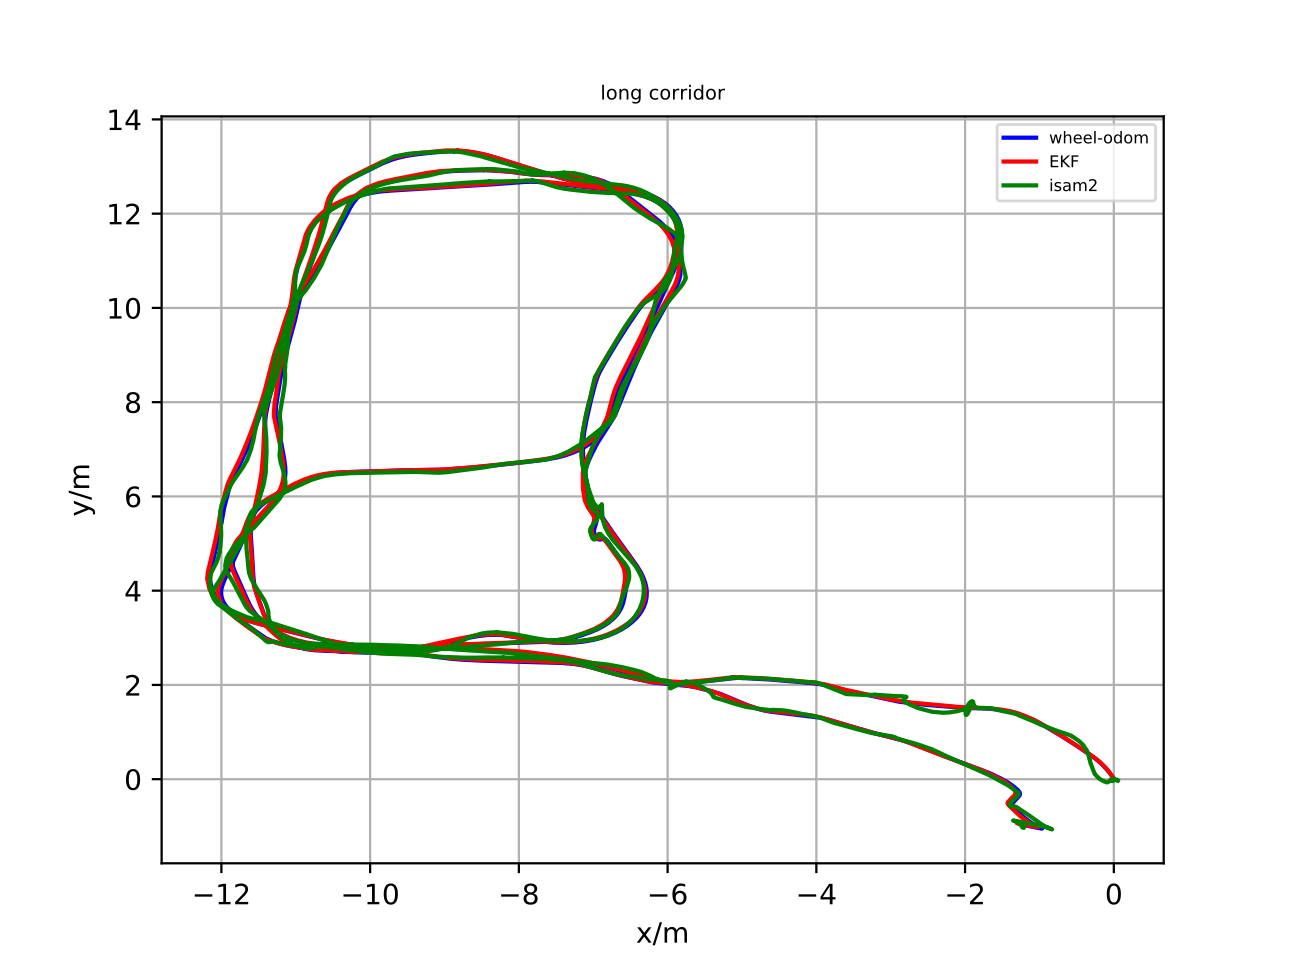
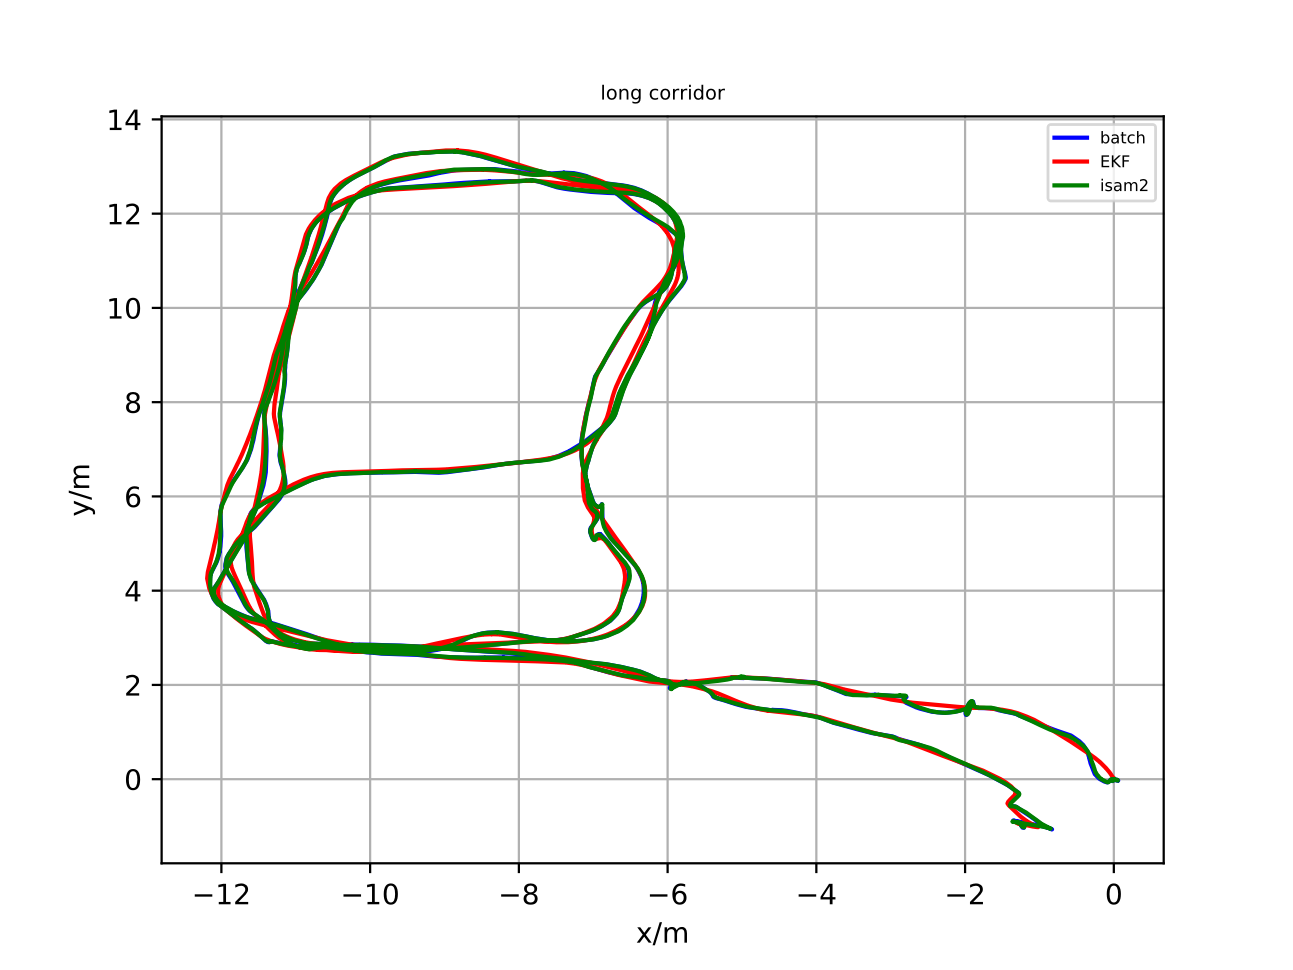
add batch optimization node

diff --git a/gtsam_imu/src/imu_preint.cpp b/gtsam_imu/src/imu_preint.cpp
@@ -54,16 +54,16 @@ int main(int argc, char const *argv[])
   graph.emplace_shared<PriorFactor<imuBias::ConstantBias>>(B(correction_count), prior_imu_bias,bias_noise_model);
 
   // We use the sensor specs to build the noise model for the IMU factor.
-  double accel_noise_sigma = 0.0979;
-  double gyro_noise_sigma = 0.0012056;
-  double accel_bias_rw_sigma = 0.04905;
-  double gyro_bias_rw_sigma = 0.0001454441043;
+  double accel_noise_sigma = 0.0980;
+  double gyro_noise_sigma = 0.0013;
+  // double accel_bias_rw_sigma = 0.055;
+  // double gyro_bias_rw_sigma = 0.00015;
   Matrix33 measured_acc_cov = Matrix33::Identity(3,3) * pow(accel_noise_sigma,2);
   Matrix33 measured_omega_cov = Matrix33::Identity(3,3) * pow(gyro_noise_sigma,2);
   Matrix33 integration_error_cov = Matrix33::Identity(3,3)*1e-8; // error committed in integrating position from velocities
-  Matrix33 bias_acc_cov = Matrix33::Identity(3,3) * pow(accel_bias_rw_sigma,2);
-  Matrix33 bias_omega_cov = Matrix33::Identity(3,3) * pow(gyro_bias_rw_sigma,2);
-  Matrix66 bias_acc_omega_int = Matrix::Identity(6,6)*1e-5; // error in the bias used for preintegration
+  // Matrix33 bias_acc_cov = Matrix33::Identity(3,3) * pow(accel_bias_rw_sigma,2);
+  // Matrix33 bias_omega_cov = Matrix33::Identity(3,3) * pow(gyro_bias_rw_sigma,2);
+  // Matrix66 bias_acc_omega_int = Matrix::Identity(6,6)*1e-5; // error in the bias used for preintegration
 
   boost::shared_ptr<PreintegratedImuMeasurements::Params> p = PreintegratedImuMeasurements::Params::MakeSharedU();
   // PreintegrationBase params:
@@ -121,6 +121,14 @@ int main(int argc, char const *argv[])
     prev_bias = result.at<imuBias::ConstantBias>(B(correction_count));
     // Reset the preintegration object.
     imu_preintegrated_->resetIntegrationAndSetBias(prev_bias);
+    graph.resize(0);
+    initial_values.clear();
+    initial_values.insert(X(correction_count), prev_state.pose());
+    initial_values.insert(V(correction_count), prev_state.v());
+    initial_values.insert(B(correction_count), prev_bias);
+    graph.emplace_shared<PriorFactor<Pose3>>(X(correction_count), prev_state.pose(), pose_noise_model);
+    graph.emplace_shared<PriorFactor<Vector3>>(V(correction_count), prev_state.v(),velocity_noise_model);
+    graph.emplace_shared<PriorFactor<imuBias::ConstantBias>>(B(correction_count), prev_bias,bias_noise_model);
     // Print out the position and orientation.
     Vector3 gtsam_position = prev_state.pose().translation();
     Quaternion gtsam_quat = prev_state.pose().rotation().toQuaternion();

diff --git a/gtsam_imu/src/imu_preint_sm.cpp b/gtsam_imu/src/imu_preint_sm.cpp
@@ -55,16 +55,16 @@ int main(int argc, char const *argv[])
   graph.emplace_shared<PriorFactor<imuBias::ConstantBias>>(B(correction_count), prior_imu_bias,bias_noise_model);
 
   // We use the sensor specs to build the noise model for the IMU factor.
-  double accel_noise_sigma = 0.0979;
-  double gyro_noise_sigma = 0.0012056;
-  double accel_bias_rw_sigma = 0.04905;
-  double gyro_bias_rw_sigma = 0.0001454441043;
+  double accel_noise_sigma = 0.0980;
+  double gyro_noise_sigma = 0.0013;
+  // double accel_bias_rw_sigma = 0.055;
+  // double gyro_bias_rw_sigma = 0.00015;
   Matrix33 measured_acc_cov = Matrix33::Identity(3,3) * pow(accel_noise_sigma,2);
   Matrix33 measured_omega_cov = Matrix33::Identity(3,3) * pow(gyro_noise_sigma,2);
   Matrix33 integration_error_cov = Matrix33::Identity(3,3)*1e-8; // error committed in integrating position from velocities
-  Matrix33 bias_acc_cov = Matrix33::Identity(3,3) * pow(accel_bias_rw_sigma,2);
-  Matrix33 bias_omega_cov = Matrix33::Identity(3,3) * pow(gyro_bias_rw_sigma,2);
-  Matrix66 bias_acc_omega_int = Matrix::Identity(6,6)*1e-5; // error in the bias used for preintegration
+  // Matrix33 bias_acc_cov = Matrix33::Identity(3,3) * pow(accel_bias_rw_sigma,2);
+  // Matrix33 bias_omega_cov = Matrix33::Identity(3,3) * pow(gyro_bias_rw_sigma,2);
+  // Matrix66 bias_acc_omega_int = Matrix::Identity(6,6)*1e-5; // error in the bias used for preintegration
 
   boost::shared_ptr<PreintegratedImuMeasurements::Params> p = PreintegratedImuMeasurements::Params::MakeSharedU();
   // PreintegrationBase params:

diff --git a/README.md b/README.md
@@ -2,7 +2,7 @@
 
 This is a demo fusing IMU data and Odometry data (wheel odom or Lidar odom) or GPS data to obtain better odometry.
 
-Currently, I implement Extended Kalman Filter (EKF) and isam2 to fuse IMU and Odometry data.
+Currently, I implement Extended Kalman Filter (EKF), batch optimization and isam2 to fuse IMU and Odometry data.
 
 ## Dependencies
 
@@ -33,10 +33,18 @@ run EKF:
 rosrun ekf_fusion ekf_fusion_node bag_filename.bag
 ```
 
-run isam2:
+run batch:
 
 ``` bash
 rosrun gtsam_imu imu_preintegrated bag_filename.bag
+```
+
+it will take a long time to get the result and I will fix it in the future
+
+run isam2:
+
+``` bash
+rosrun gtsam_imu imu_preintegrated_sm bag_filename.bag
 ```
 
 ## Performance
